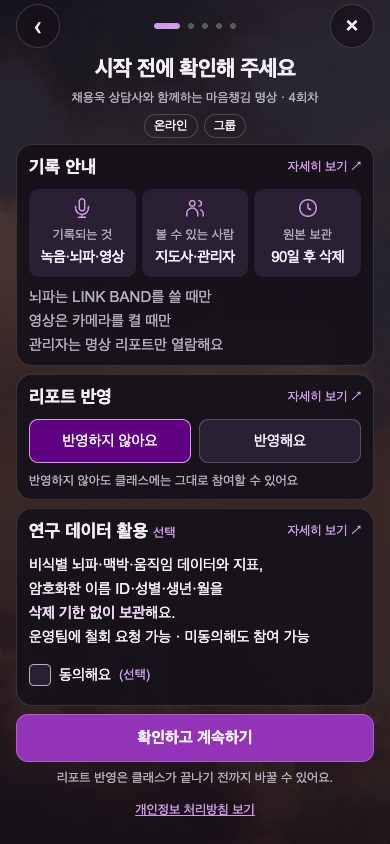
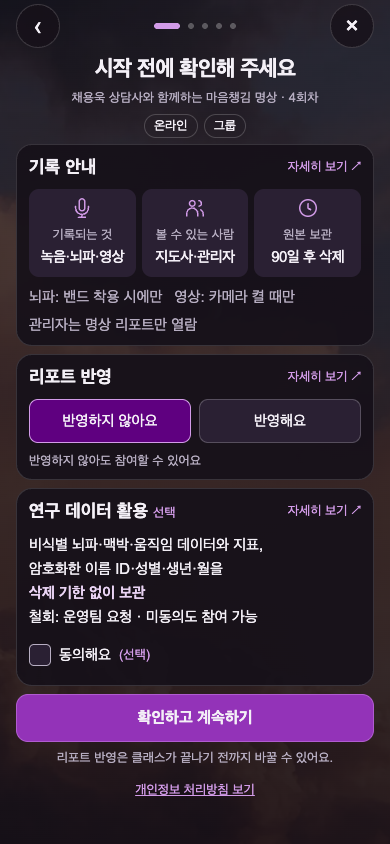
docs: 선택된 A안 문구 간결화와 로컬 미리보기 안내

Changed region(s): [[0.0308, 0.3389, 0.9846, 0.9858]]

diff --git a/designs/entry-notice-summary/assets/design.js b/designs/entry-notice-summary/assets/design.js
@@ -10,12 +10,12 @@ const sheetContent={
 };
 function review(){document.querySelector('#app').innerHTML=`<main class="review"><div class="eyebrow">MIND BREEZE · DESIGN REVIEW · 2026.10.22</div><h1>입장 전, 한눈에 이해하고<br>내 기록은 내가 선택하도록.</h1><p class="intro">전체 고지는 상세 시트에 그대로. 선택에 필요한 핵심은 화면에 남깁니다.<br>현재 화면과 두 가지 방향을 같은 390 × 844 크기로 비교해 보세요.</p><nav><a href="?view=a">A · 아이콘 타일</a><a href="?view=b">B · 체크리스트</a><a href="?view=a&sheet=research">연구 동의 시트</a><a href="?view=a&sheet=record">기록 안내 시트</a><a href="?view=a&sheet=report">리포트 시트</a><a href="current.html">현재 화면</a></nav><section class="comparison"><article><h2>현재 · 전체 고지 노출</h2><p>실제 컴포넌트 · 작은 본문과 긴 읽기 흐름</p><div class="framebox"><iframe title="현재 화면 390" src="current.html"></iframe></div></article><article><h2>A · 아이콘 타일 <span class="optional">추천</span></h2><p>기록 / 열람 / 보관을 세 덩어리로 빠르게 파악</p><div class="framebox"><iframe title="A안 390" src="?view=a"></iframe></div></article><article><h2>B · 체크리스트</h2><p>위에서 아래로 차분하게 읽는 안내 목록</p><div class="framebox"><iframe title="B안 390" src="?view=b"></iframe></div></article></section><p class="sample">시연 데이터 · 채용욱 상담사 / 마음챙김 명상 · 4회차 / 원본 90일. 운영 데이터 조회 없음. 각 프레임은 개별 스크롤·선택·시트 조작이 가능합니다.</p><section><h2>상세 시트 · 원문 그대로, 본문 16px</h2><div class="comparison"><div class="framebox"><iframe title="기록 시트" src="?view=a&sheet=record"></iframe></div><div class="framebox"><iframe title="리포트 시트" src="?view=a&sheet=report"></iframe></div><div class="framebox"><iframe title="연구 시트" src="?view=a&sheet=research"></iframe></div></div></section><section><h2>데스크톱 화면</h2><p class="intro">실제 1440 × 900 캡처 비교. 이미지를 누르면 원본 크기로 볼 수 있습니다.</p><div class="desktop-comparison"><figure><figcaption>현재</figcaption><a href="screenshots/current-1440.png"><img src="screenshots/current-1440.png" alt="현재 1440px 화면"></a></figure><figure><figcaption>A · 아이콘 타일</figcaption><a href="screenshots/a-1440.png"><img src="screenshots/a-1440.png" alt="A · 아이콘 타일 1440px 화면"></a></figure><figure><figcaption>B · 체크리스트</figcaption><a href="screenshots/b-1440.png"><img src="screenshots/b-1440.png" alt="B · 체크리스트 1440px 화면"></a></figure></div></section></main>`}
 function screen(){const rows=[['record','기록되는 것','녹음·뇌파·영상'],['people','볼 수 있는 사람','지도사·관리자'],['time','원본 보관','90일 후 삭제']];
- document.querySelector('#app').innerHTML=`<div class="screen ${variant}"><div class="wrap"><header class="top"><button class="round demo" aria-label="이전">‹</button><div class="steps" aria-label="5단계 중 1단계"><i></i><i></i><i></i><i></i><i></i></div><button class="round demo" aria-label="나가기">×</button></header><main><div class="heading"><h1>시작 전에 확인해 주세요</h1><p>채용욱 상담사와 함께하는 마음챙김 명상 · 4회차</p><div class="chips"><span>온라인</span><span>그룹</span></div></div><div class="cards"><section class="card record-card"><div class="cardhead"><h2>기록 안내</h2><button class="detail" data-sheet="record" aria-label="기록 안내 자세히 보기">자세히 보기 ↗</button></div><div class="${variant==='a'?'tiles':'checklist'}">${rows.map(([i,t,v])=>`<div class="${variant==='a'?'tile':'checkrow'}">${icon(i)}<small>${t}</small><strong>${v}</strong></div>`).join('')}</div><p class="conditions">뇌파는 LINK BAND를 쓸 때만<span class="condition-break"><span> · </span></span>영상은 카메라를 켤 때만<br>관리자는 명상 리포트만 열람해요</p></section><section class="card report-card"><div class="cardhead"><h2>리포트 반영</h2><button class="detail" data-sheet="report" aria-label="리포트 반영 자세히 보기">자세히 보기 ↗</button></div><div class="segment" role="radiogroup" aria-label="내 기록을 리포트에 반영할까요?"><button role="radio" aria-checked="true" data-choice="excluded">반영하지 않아요</button><button role="radio" aria-checked="false" data-choice="included">반영해요</button></div><p class="report-note" id="report-note">반영하지 않아도 클래스에는 그대로 참여할 수 있어요</p></section><section class="card research-card"><div class="cardhead"><h2>연구 데이터 활용 <span class="optional">선택</span></h2><button class="detail" data-sheet="research" aria-label="연구 데이터 활용 자세히 보기">자세히 보기 ↗</button></div><p class="research-copy">비식별 뇌파·맥박·움직임 데이터와 지표,<br>암호화한 이름 ID·성별·생년·월을<br><strong>삭제 기한 없이 보관</strong>해요.<br>운영팀에 철회 요청 가능 · 미동의해도 참여 가능</p><div class="research-actions"><label class="check"><input id="consent" type="checkbox">동의해요 <span class="optional">(선택)</span></label></div></section></div></main><footer class="foot"><button class="primary demo" id="continue">확인하고 계속하기</button><p>리포트 반영은 클래스가 끝나기 전까지 바꿀 수 있어요.</p><a class="privacy" href="#privacy" data-sheet="privacy">개인정보 처리방침 보기</a></footer></div></div><dialog aria-labelledby="sheet-title"><div class="handle"></div><header class="sheethead"><h2 id="sheet-title"></h2><button class="round" id="close" aria-label="닫기">×</button></header><div class="sheetbody"></div><footer class="sheetfoot"><button class="primary" id="read">확인했어요</button></footer></dialog>`;
+ document.querySelector('#app').innerHTML=`<div class="screen ${variant}"><div class="wrap"><header class="top"><button class="round demo" aria-label="이전">‹</button><div class="steps" aria-label="5단계 중 1단계"><i></i><i></i><i></i><i></i><i></i></div><button class="round demo" aria-label="나가기">×</button></header><main><div class="heading"><h1>시작 전에 확인해 주세요</h1><p>채용욱 상담사와 함께하는 마음챙김 명상 · 4회차</p><div class="chips"><span>온라인</span><span>그룹</span></div></div><div class="cards"><section class="card record-card"><div class="cardhead"><h2>기록 안내</h2><button class="detail" data-sheet="record" aria-label="기록 안내 자세히 보기">자세히 보기 ↗</button></div><div class="${variant==='a'?'tiles':'checklist'}">${rows.map(([i,t,v])=>`<div class="${variant==='a'?'tile':'checkrow'}">${icon(i)}<small>${t}</small><strong>${v}</strong></div>`).join('')}</div>${variant==='a'?'<div class="conditions compact-conditions"><div class="condition-pills"><span>뇌파: 밴드 착용 시에만</span><span>영상: 카메라 켤 때만</span></div><p>관리자는 명상 리포트만 열람</p></div>':'<p class="conditions">뇌파는 LINK BAND를 쓸 때만<span class="condition-break"><span> · </span></span>영상은 카메라를 켤 때만<br>관리자는 명상 리포트만 열람해요</p>'}</section><section class="card report-card"><div class="cardhead"><h2>리포트 반영</h2><button class="detail" data-sheet="report" aria-label="리포트 반영 자세히 보기">자세히 보기 ↗</button></div><div class="segment" role="radiogroup" aria-label="내 기록을 리포트에 반영할까요?"><button role="radio" aria-checked="true" data-choice="excluded">반영하지 않아요</button><button role="radio" aria-checked="false" data-choice="included">반영해요</button></div><p class="report-note" id="report-note">${variant==='a'?'반영하지 않아도 참여할 수 있어요':COPY.report[0]}</p></section><section class="card research-card"><div class="cardhead"><h2>연구 데이터 활용 <span class="optional">선택</span></h2><button class="detail" data-sheet="research" aria-label="연구 데이터 활용 자세히 보기">자세히 보기 ↗</button></div><p class="research-copy">비식별 뇌파·맥박·움직임 데이터와 지표,<br>암호화한 이름 ID·성별·생년·월을<br><strong>삭제 기한 없이 보관</strong><br>철회: 운영팀 요청 · 미동의도 참여 가능</p><div class="research-actions"><label class="check"><input id="consent" type="checkbox">동의해요 <span class="optional">(선택)</span></label></div></section></div></main><footer class="foot"><button class="primary demo" id="continue">확인하고 계속하기</button><p>리포트 반영은 클래스가 끝나기 전까지 바꿀 수 있어요.</p><a class="privacy" href="#privacy" data-sheet="privacy">개인정보 처리방침 보기</a></footer></div></div><dialog aria-labelledby="sheet-title"><div class="handle"></div><header class="sheethead"><h2 id="sheet-title"></h2><button class="round" id="close" aria-label="닫기">×</button></header><div class="sheetbody"></div><footer class="sheetfoot"><button class="primary" id="read">확인했어요</button></footer></dialog>`;
  const dialog=document.querySelector('dialog');let choice='excluded';
  function openSheet(key){const data=sheetContent[key];document.querySelector('#sheet-title').textContent=data.title;document.querySelector('.sheetbody').innerHTML=data.body;const confirm=document.querySelector('#sheet-confirm');if(confirm)confirm.textContent=choice==='included'?'이번 클래스의 내 기록이 리포트에 반영돼요':'';dialog.showModal();document.querySelector('.sheetbody').scrollTop=0;document.querySelector('#close').focus()}
  document.querySelectorAll('[data-sheet]').forEach(b=>b.addEventListener('click',e=>{e.preventDefault();openSheet(b.dataset.sheet)}));
  ['close','read'].forEach(id=>document.getElementById(id).onclick=()=>dialog.close());
- document.querySelectorAll('[data-choice]').forEach(b=>b.onclick=()=>{choice=b.dataset.choice;document.querySelectorAll('[data-choice]').forEach(x=>x.setAttribute('aria-checked',String(x===b)));document.querySelector('#report-note').textContent=choice==='included'?'이번 클래스의 내 기록이 리포트에 반영돼요':COPY.report[0]});
+ document.querySelectorAll('[data-choice]').forEach(b=>b.onclick=()=>{choice=b.dataset.choice;document.querySelectorAll('[data-choice]').forEach(x=>x.setAttribute('aria-checked',String(x===b)));document.querySelector('#report-note').textContent=choice==='included'?'이번 클래스의 내 기록이 리포트에 반영돼요':(variant==='a'?'반영하지 않아도 참여할 수 있어요':COPY.report[0])});
  document.querySelector('.segment').addEventListener('keydown',e=>{if(['ArrowLeft','ArrowRight','ArrowUp','ArrowDown'].includes(e.key)){e.preventDefault();const other=document.querySelector('[data-choice="'+(choice==='included'?'excluded':'included')+'"]');other.click();other.focus()}});
  document.querySelectorAll('.demo').forEach(b=>b.onclick=()=>{const t=document.createElement('div');t.className='toast';t.setAttribute('role','status');t.textContent='디자인 시안이에요. 실제 입장·저장은 하지 않아요.';document.body.append(t);setTimeout(()=>t.remove(),2600)});
  if(sheetContent[params.get('sheet')])openSheet(params.get('sheet'));

diff --git a/designs/entry-notice-summary/assets/design.css b/designs/entry-notice-summary/assets/design.css
@@ -6,3 +6,5 @@
 @media(min-width:768px){.foot{margin-top:16px}}
 .desktop-comparison{display:grid;grid-template-columns:repeat(3,1fr);gap:16px;margin-top:20px}.desktop-comparison figure{margin:0}.desktop-comparison img{display:block;width:100%;border:1px solid #4e3c5b;border-radius:12px}.desktop-comparison figcaption{margin-bottom:8px}@media(max-width:767px){.desktop-comparison{grid-template-columns:1fr}}
 @media(max-width:767px){.condition-break{display:block}.condition-break span{display:none}}
+/* A 마무리: 조건 안내를 짧은 병렬 항목으로 묶는다. */
+.condition-pills{display:flex;flex-wrap:wrap;gap:4px 12px}.condition-pills span{white-space:nowrap}.compact-conditions>p{margin-top:4px}.a .research-copy{font-weight:400}@media(min-width:768px){.condition-pills{justify-content:center}}
